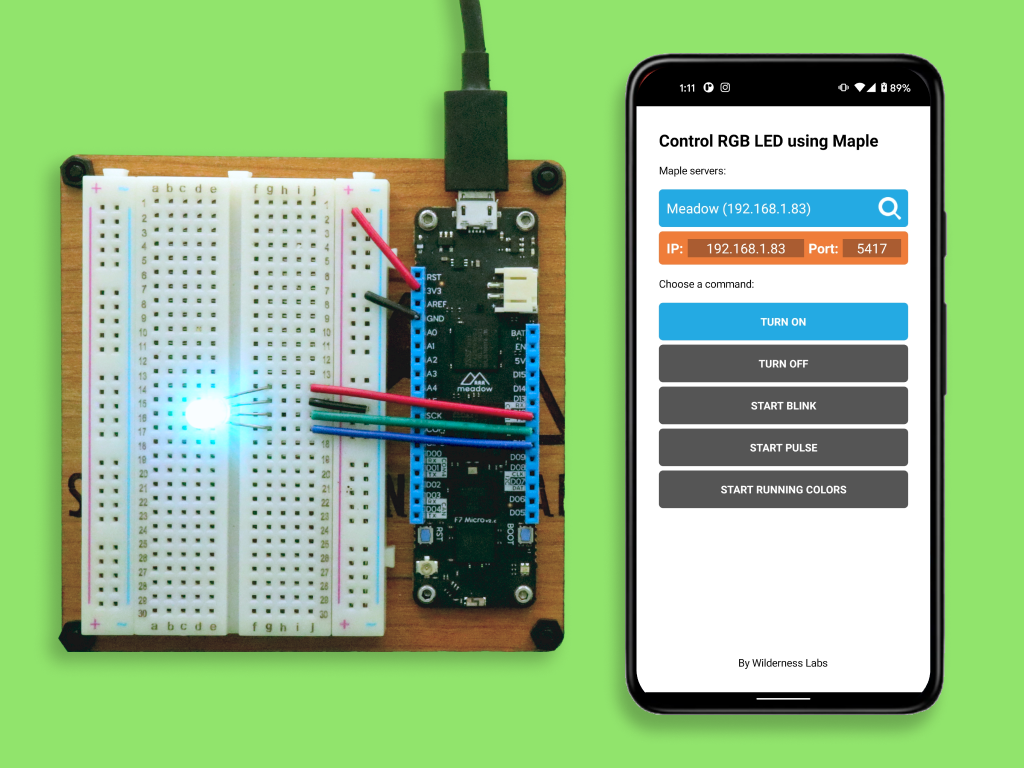
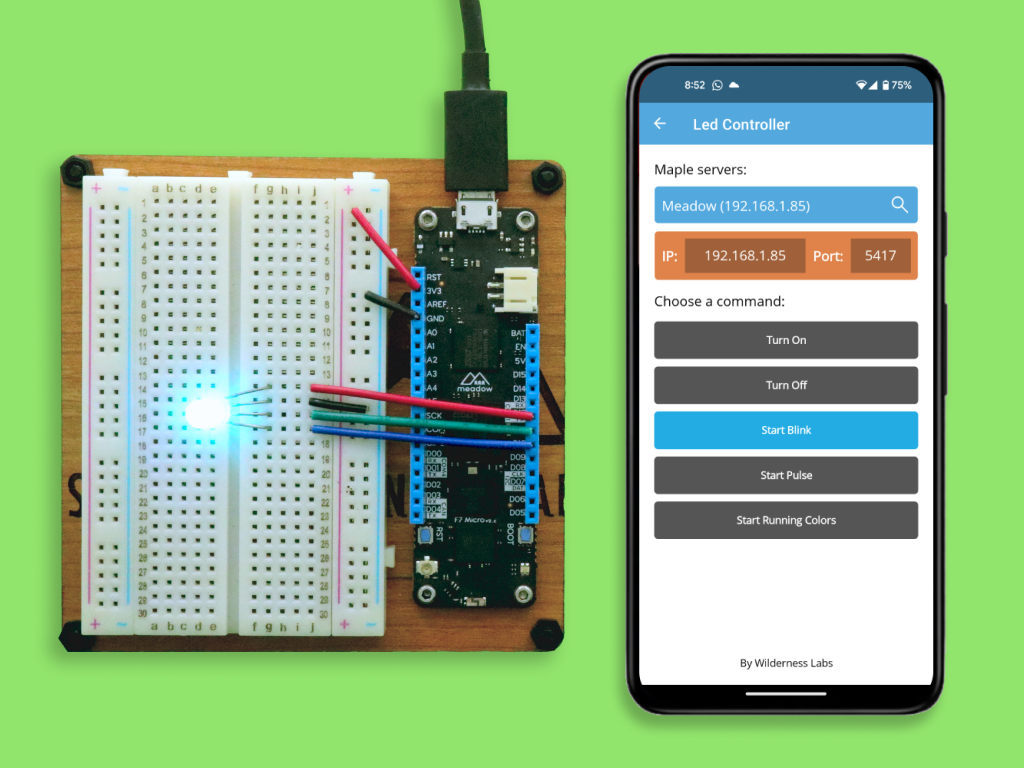
Fix broken links and update sample images

Changed region(s): [[0.5938, 0.0625, 0.9375, 0.9375]]

diff --git a/Readme.md b/Readme.md
@@ -208,17 +208,17 @@ The following sample projects are using Maple to control a Meadow board using a 
         <td>
             <a href="https://www.hackster.io/wilderness-labs/remotely-control-an-rgb-led-with-meadow-and-xamarin-w-rest-153a28"><img src="Design/MeadowMapleLed.png"/></a><br/>
             Control a RGB LED with Meadow and MAUI using REST</br>
-            <a href="https://www.hackster.io/wilderness-labs/remotely-control-an-rgb-led-with-meadow-and-xamarin-w-rest-153a28">Hackster</a> | <a href="Source/Hackster/Maple/MeadowMapleLed/">Source Code</a>
+            <a href="https://www.hackster.io/wilderness-labs/remotely-control-an-rgb-led-with-meadow-and-xamarin-w-rest-153a28">Hackster</a> | <a href="https://github.com/WildernessLabs/Meadow.Project.Samples/tree/main/Source/Hackster/Maple/MeadowMapleLed">Source Code</a>
         </td>
         <td>
             <a href="https://www.hackster.io/wilderness-labs/remote-control-a-servo-with-meadow-and-xamarin-using-rest-063cb0"><img src="Design/MeadowMapleServo.png"/></a><br/>
             Control a Servo with Meadow and MAUI using REST</br>
-            <a href="https://www.hackster.io/wilderness-labs/remote-control-a-servo-with-meadow-and-xamarin-using-rest-063cb0">Hackster</a> | <a href="Source/Hackster/Maple/MeadowMapleServo/">Source Code</a>
+            <a href="https://www.hackster.io/wilderness-labs/remote-control-a-servo-with-meadow-and-xamarin-using-rest-063cb0">Hackster</a> | <a href="https://github.com/WildernessLabs/Meadow.Project.Samples/tree/main/Source/Hackster/Maple/MeadowMapleServo">Source Code</a>
         </td>
         <td>
             <a href="https://www.hackster.io/wilderness-labs/get-temperature-logs-with-meadow-and-maui-using-rest-e529df"><img src="Design/MeadowMapleTemperature.png"/></a><br/>
             Get temperature logs with Meadow and MAUI using REST</br>
-            <a href="https://www.hackster.io/wilderness-labs/get-temperature-logs-with-meadow-and-maui-using-rest-e529df">Hackster</a> | <a href="Source/Hackster/Maple/MeadowMapleTemperature/">Source Code</a>
+            <a href="https://www.hackster.io/wilderness-labs/get-temperature-logs-with-meadow-and-maui-using-rest-e529df">Hackster</a> | <a href="https://github.com/WildernessLabs/Meadow.Project.Samples/tree/main/Source/Hackster/Maple/MeadowMapleTemperature">Source Code</a>
         </td>
     </tr>
     <tr>
